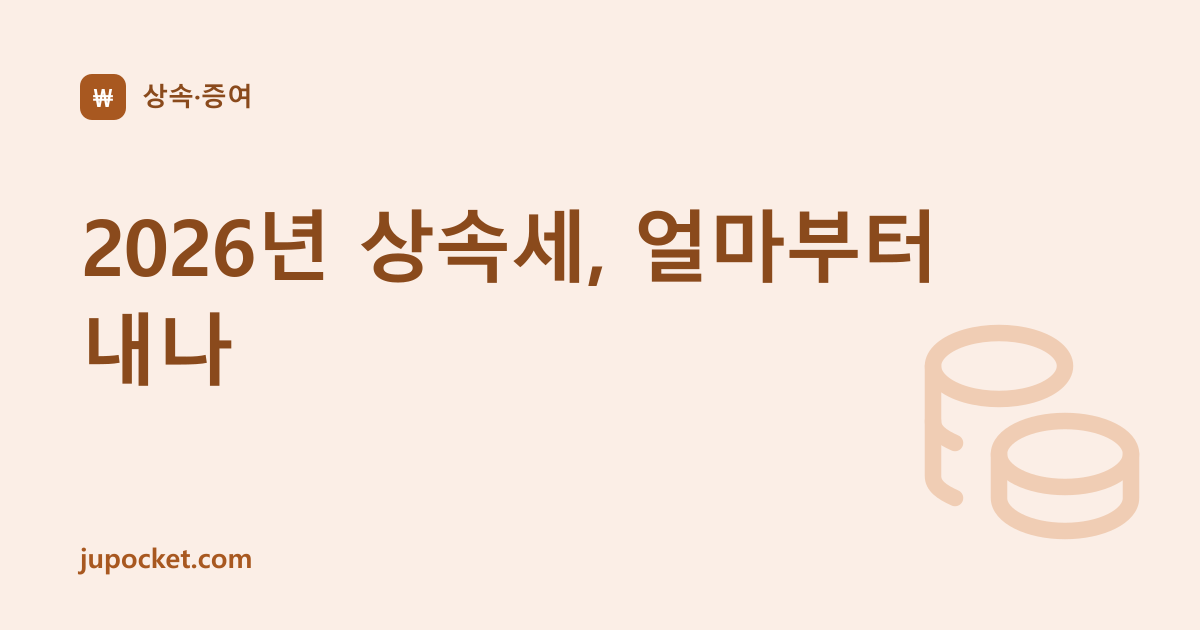
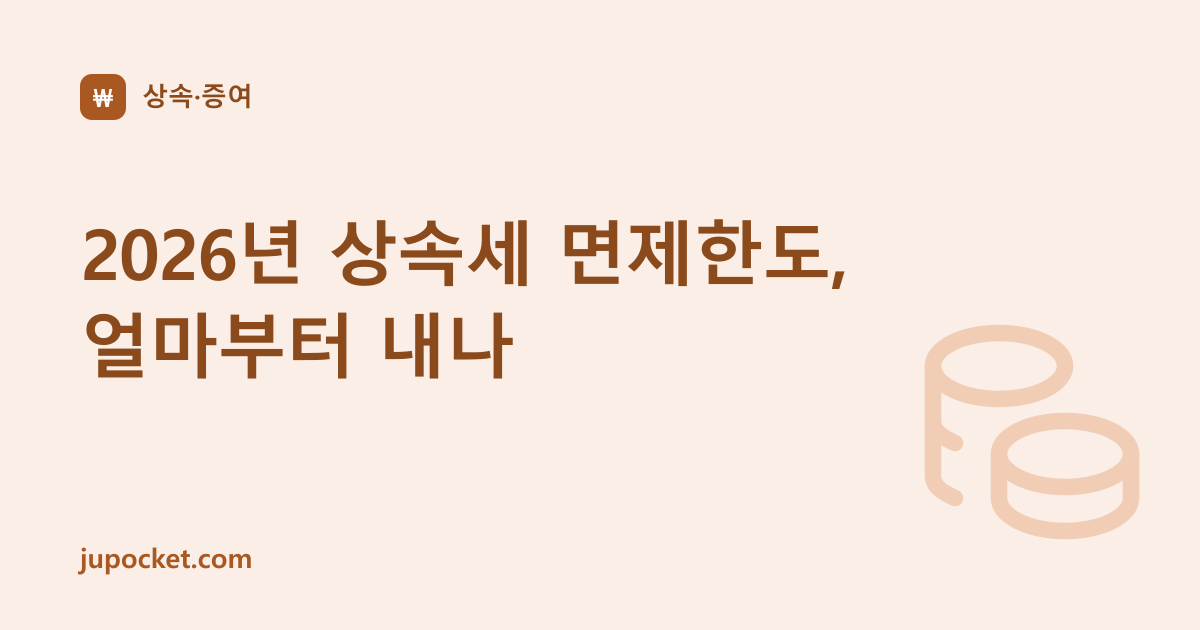
content: 상속세 — 독자의 단어("면제한도")와 금액 프리셋을 자동완성에 맞춤
135개 자동완성 대조 결과를 반영했다. 숫자는 하나도 손대지 않았다.

- "면제한도" 12건이 검색되는데 글·계산기에 0회였다. 제목·소제목에 넣고
  들머리에서 공제와 같은 것임을 한 문장으로 이어 줬다. 본문은 법대로 공제
- 계산기 금액 프리셋을 5·10·15·30억 -> 1·2·5·10·20억. 자동완성에 실제로
  붙어 나오는 금액이 이쪽이다
- "개정·개편" 35건에 답하는 절 추가. 개정안 숫자는 싣지 않고, 지금 시행
  중인 법(시행 2026.1.2. 법률 제21065호)과 시행일이 와야 적용된다는 것만
  적었다. 통과 여부는 원문에서 확인되지 않아 주장하지 않는다

제목이 바뀌어 OG 재생성.

Changed region(s): [[0.0617, 0.3317, 0.8017, 0.4524], [0.0617, 0.4825, 0.4317, 0.6333]]

diff --git a/src/data/clusters.ts b/src/data/clusters.ts
@@ -103,8 +103,8 @@ export const clusters: Cluster[] = [
     id: "inheritance",
     title: "상속·증여",
     links: [
-      { href: "/inheritance/", title: "상속세 계산기", kind: "calc", icon: "scale", blurb: "재산과 가족 구성을 넣으면 공제·과세표준·세액까지" },
-      { href: "/guide/inheritance-tax/", title: "상속세, 얼마부터 내나", kind: "guide", icon: "coins", year: 2026 },
+      { href: "/inheritance/", title: "상속세 계산기", kind: "calc", icon: "scale", blurb: "재산과 가족 구성을 넣으면 면제한도·과세표준·세액까지" },
+      { href: "/guide/inheritance-tax/", title: "상속세 면제한도, 얼마부터 내나", kind: "guide", icon: "coins", year: 2026 },
     ],
   },
 ];

diff --git a/src/data/linkhub.ts b/src/data/linkhub.ts
@@ -50,7 +50,7 @@ export const hubEntries: HubEntry[] = [
   { no: 23, href: "/guide/family-deduction/", label: "인적공제, 누구까지 넣나", kind: "guide" },
   { no: 24, href: "/guide/vat-penalty/", label: "부가세 가산세, 따로 붙는 것들", kind: "guide" },
   { no: 25, href: "/inheritance/", label: "상속세 계산기", kind: "calc" },
-  { no: 26, href: "/guide/inheritance-tax/", label: "상속세, 얼마부터 내나", kind: "guide" },
+  { no: 26, href: "/guide/inheritance-tax/", label: "상속세 면제한도, 얼마부터", kind: "guide" },
 ];
 
 /** 다음에 쓸 번호. 새 글을 추가할 때 이 값을 쓴다. */
